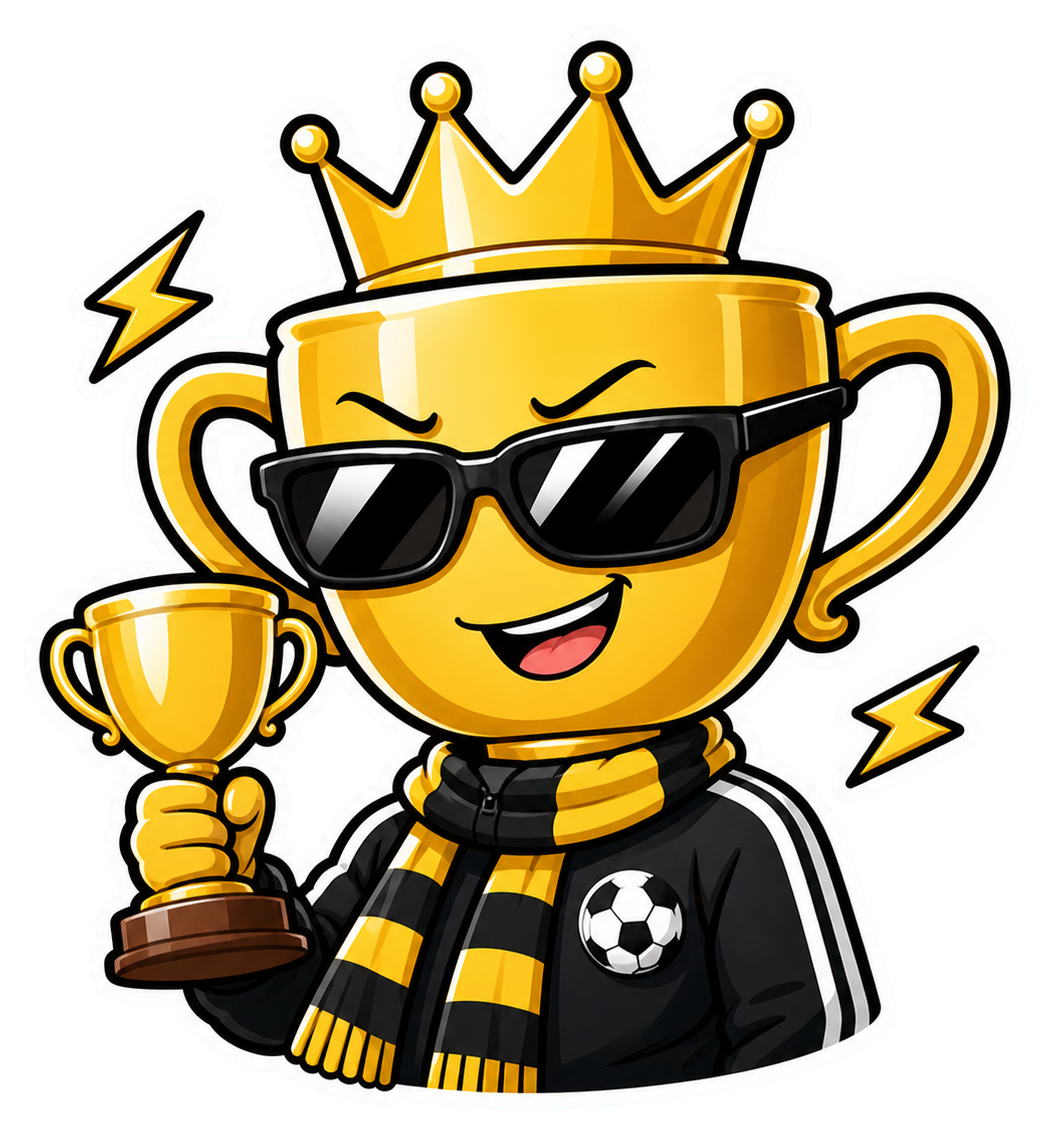
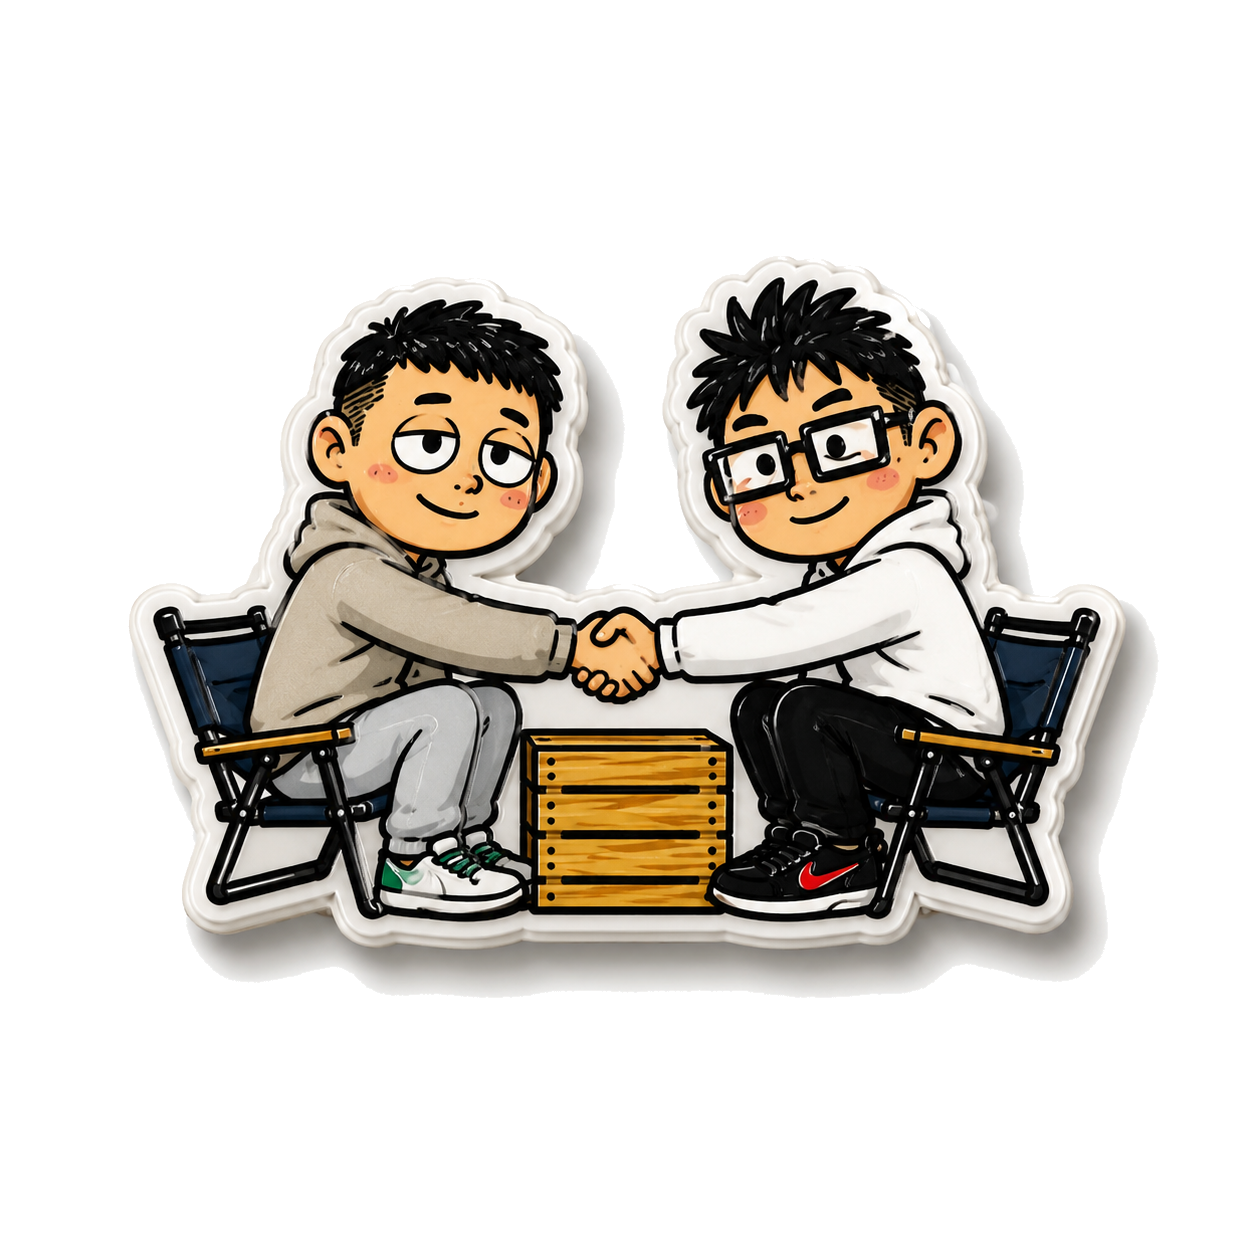
Replace rank mascot with Fanqiang cutout

diff --git a/script.js b/script.js
@@ -2,7 +2,7 @@
 const COUNTRY_FLAGS = {
   "墨西哥": "🇲🇽", "南非": "🇿🇦", "韩国": "🇰🇷", "捷克": "🇨🇿",
   "加拿大": "🇨🇦", "波黑": "🇧🇦", "卡塔尔": "🇶🇦", "瑞士": "🇨🇭",
-  "巴西": "🇧🇷", "摩洛哥": "🇲🇦", "海地": "🇭🇹", "苏格兰": "🏴",
+  "巴西": "🇧🇷", "摩洛哥": "🇲🇦", "海地": "🇭🇹", "苏格兰": "\u{1F3F4}\u{E0067}\u{E0062}\u{E0073}\u{E0063}\u{E0074}\u{E007F}",
   "美国": "🇺🇸", "巴拉圭": "🇵🇾", "澳大利亚": "🇦🇺", "土耳其": "🇹🇷",
   "德国": "🇩🇪", "库拉索": "🇨🇼", "科特迪瓦": "🇨🇮", "厄瓜多尔": "🇪🇨",
   "荷兰": "🇳🇱", "日本": "🇯🇵", "瑞典": "🇸🇪", "突尼斯": "🇹🇳",
@@ -11,7 +11,7 @@ const COUNTRY_FLAGS = {
   "法国": "🇫🇷", "塞内加尔": "🇸🇳", "伊拉克": "🇮🇶", "挪威": "🇳🇴",
   "阿根廷": "🇦🇷", "阿尔及利亚": "🇩🇿", "奥地利": "🇦🇹", "约旦": "🇯🇴",
   "葡萄牙": "🇵🇹", "刚果(金)": "🇨🇩", "乌兹别克斯坦": "🇺🇿", "哥伦比亚": "🇨🇴",
-  "英格兰": "🏴", "克罗地亚": "🇭🇷", "加纳": "🇬🇭", "巴拿马": "🇵🇦",
+  "英格兰": "\u{1F3F4}\u{E0067}\u{E0062}\u{E0065}\u{E006E}\u{E0067}\u{E007F}", "克罗地亚": "🇭🇷", "加纳": "🇬🇭", "巴拿马": "🇵🇦",
   "新加坡": "🇸🇬", "中国": "🇨🇳"
 };
 